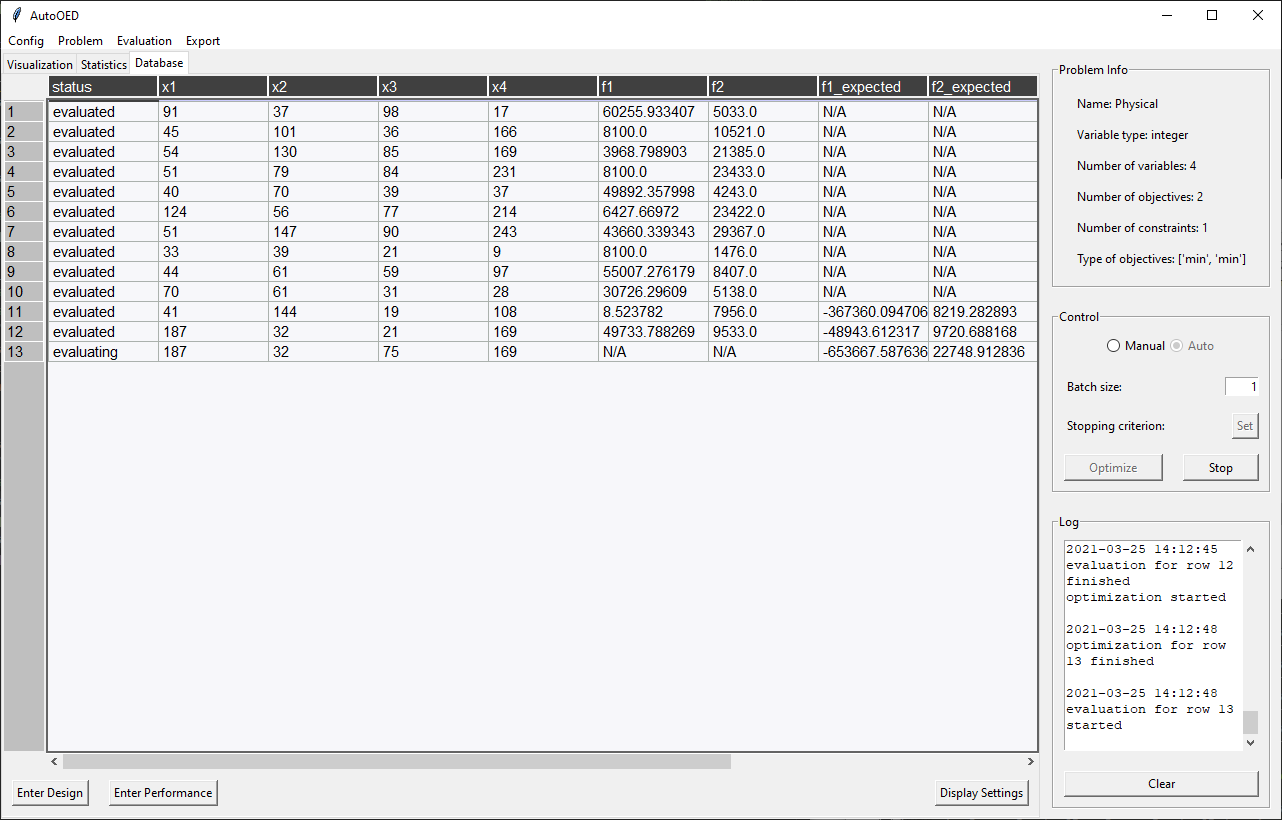
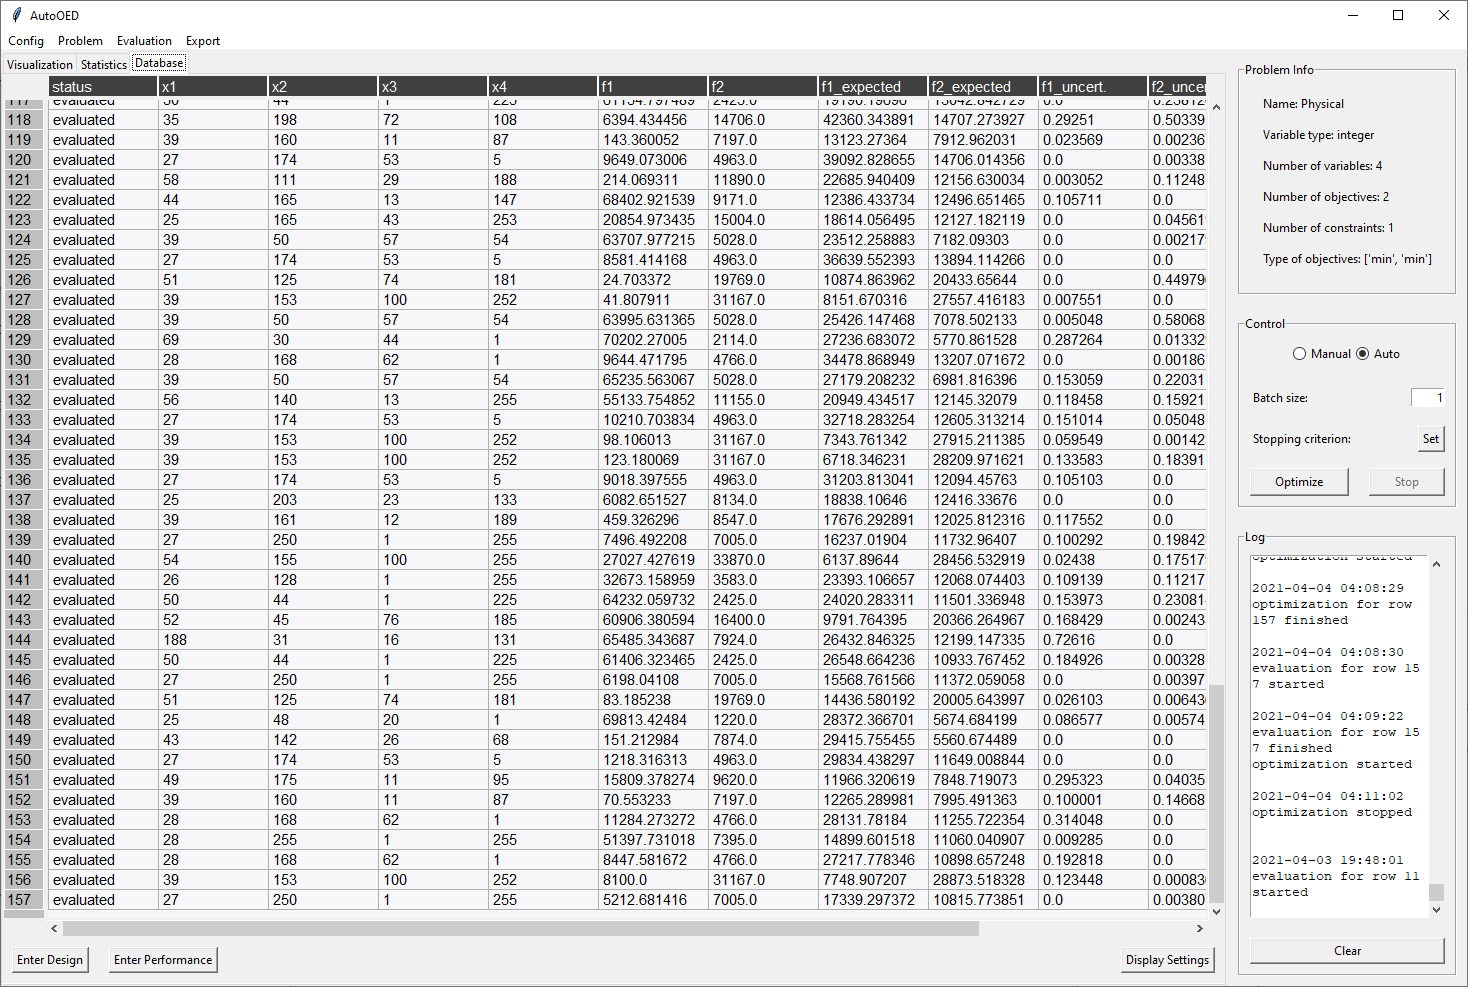
update docs: physical experiment

diff --git a/docs/source/content/getting-started/example-physical.rst b/docs/source/content/getting-started/example-physical.rst
@@ -88,24 +88,44 @@ Finally, we click ``Finish`` and the problem list gets updated:
    :width: 300 px
 
 
-Step 2: Building Experiment (Incomplete)
-----------------------------------------
+Step 2: Building Experiment
+---------------------------
 
 After building the problem, now we are building an experiment to optimize that problem.
 Click ``Config->Create`` from the menu and enter the corresponding information of the experiment,
 which may looks like this:
 
+.. figure:: ../../_static/getting-started/example-physical/build-experiment/create.png
+   :width: 250 px
 
-Step 3: Running Optimization (Incomplete)
------------------------------------------
+In this example, we select our "Physical" problem that we just created from the problem list. 
+Next, we choose "DGEMO" as the optimization algorithm, and by default it runs in parallel using the count of CPUs as number of parallel processes.
+Then, we want to have a random initialization with 10 samples generated by AutoOED.
+Finally, we can click ``Save`` to build the experiment without worrying about other optional parameters.
 
-Then we can see the initialization is taking place and the software interface becomes:
 
-.. figure:: ../../_static/getting-started/example-physical/run-optimization/main.png
+Step 3: Running Optimization
+----------------------------
+
+After building the experiment, we can see the initialization is taking place from the main interface. 
+
+.. figure:: ../../_static/getting-started/example-physical/run-optimization/main_initial.png
    :width: 700 px
-
+   
 We can see our 10 initial samples from the performance space figure, where they are colored as blue and the Pareto-optimal ones are colored as red.
 When you double click some points in the performance space, the values of the corresponding design variables will appear on the radar plot shown on the right.
+
+After the initialization is done, we can select ``Auto`` mode in the control panel and let the optimization run
+in a fully automated fashion. Finally the results will look like this:
+
+.. figure:: ../../_static/getting-started/example-physical/run-optimization/main_optimized.png
+   :width: 700 px
+
+Here are some optimization statistics, especially the hypervolume curve, showing the progress of our optimization.
+We observe a huge improvement in terms of the hypervolume with only 160 total sample evaluations.
+
+.. figure:: ../../_static/getting-started/example-physical/run-optimization/statistics.png
+   :width: 700 px
 
 In addition, here is the display for the database which stores all the historical data.
 
